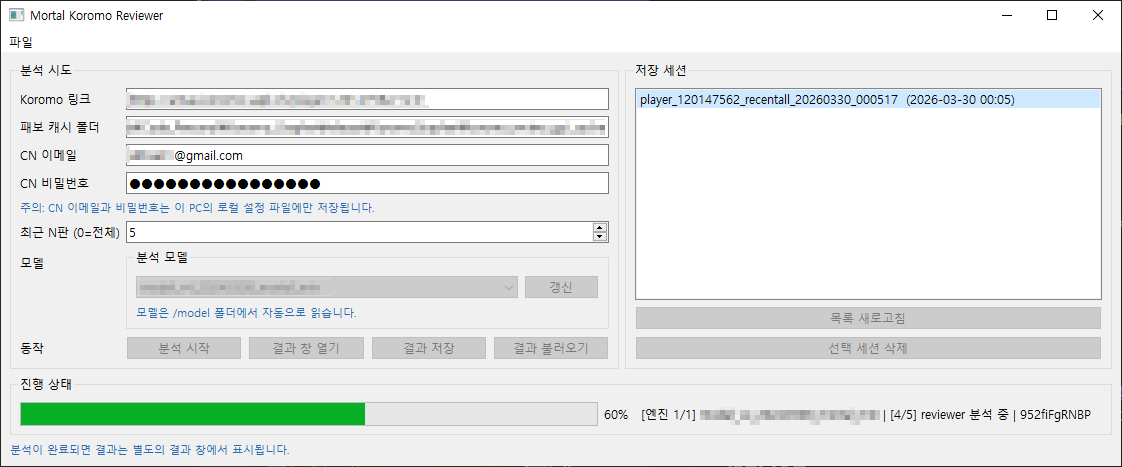
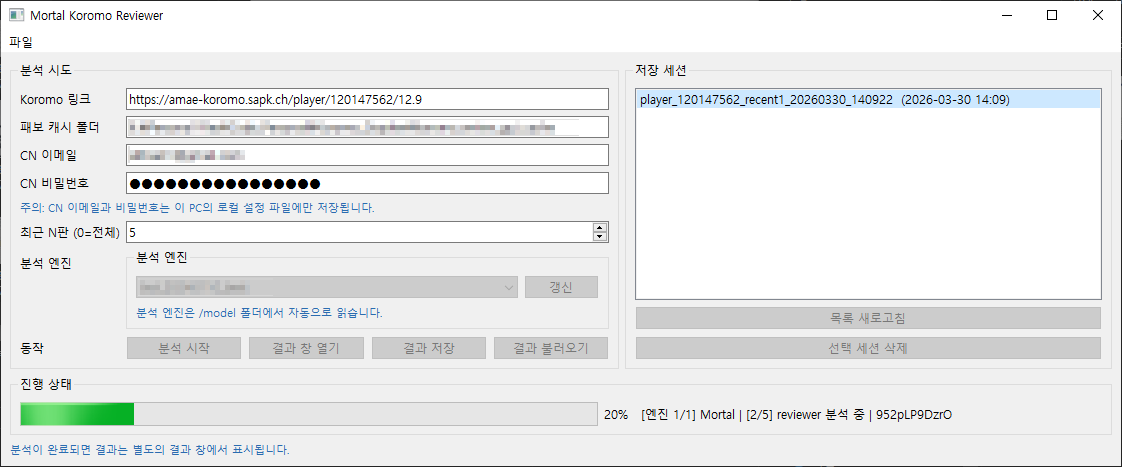
Update GUIDE.md / etc

diff --git a/koromo_review_gui/ui.py b/koromo_review_gui/ui.py
@@ -431,7 +431,7 @@ class AnalysisWorker(QObject):
             reports: list[EngineAnalysisResult] = []
             total_models = max(1, len(self.model_dirs))
             for model_index, model_dir in enumerate(self.model_dirs, start=1):
-                engine_name = "Mortal"
+                engine_name = Path(model_dir).name or f"engine_{model_index}"
                 analyzer_service = AnalyzerService(model_dir)
 
                 def bridge_progress(current: int, total: int, message: str):
@@ -485,6 +485,9 @@ class KyokuDetailTab(QWidget):
         self.entry_table.setEditTriggers(QAbstractItemView.EditTrigger.NoEditTriggers)
         self.entry_table.setSelectionBehavior(QAbstractItemView.SelectionBehavior.SelectRows)
         self.entry_table.setSelectionMode(QAbstractItemView.SelectionMode.SingleSelection)
+        self.entry_table.setStyleSheet(
+            "QTableWidget::item:selected { background:#ede9fe; color:#4c1d95; }"
+        )
         self.entry_table.verticalHeader().setVisible(False)
         self.entry_table.verticalHeader().setDefaultSectionSize(38)
         self.entry_table.horizontalHeader().setSectionResizeMode(0, QHeaderView.ResizeMode.ResizeToContents)
@@ -613,7 +616,7 @@ class KyokuDetailTab(QWidget):
                 if col_index in {0, 3, 4}:
                     item.setTextAlignment(Qt.AlignmentFlag.AlignCenter)
                 self.entry_table.setItem(row_index, col_index, item)
-            tile_widget = self._make_tile_widget(entry.tile, compact=True)
+            tile_widget = self._make_plain_tile_widget(entry.tile, compact=True)
             tile_widget.setAlignment(Qt.AlignmentFlag.AlignCenter)
             cell = QWidget()
             cell_layout = QVBoxLayout(cell)
@@ -624,6 +627,7 @@ class KyokuDetailTab(QWidget):
         self.next_button.setEnabled(bool(self.filtered_entries))
         if self.filtered_entries:
             self.entry_table.selectRow(0)
+            self._update_entry_tile_cell_styles(0)
         else:
             self.compare_label.setText("-")
             self.meta_label.setText("-")
@@ -634,6 +638,7 @@ class KyokuDetailTab(QWidget):
         row_index = self.entry_table.currentRow()
         if row_index < 0 or row_index >= len(self.filtered_entries):
             return
+        self._update_entry_tile_cell_styles(row_index)
         entry = self.filtered_entries[row_index]
         flags = ", ".join(entry.flags) if entry.flags else "-"
         actual_color = "#c53030" if not entry.is_equal else "#2f855a"
@@ -676,6 +681,24 @@ class KyokuDetailTab(QWidget):
             return
         next_row = max(0, min(self.entry_table.rowCount() - 1, row + delta))
         self.entry_table.selectRow(next_row)
+
+    def _update_entry_tile_cell_styles(self, selected_row: int):
+        for row_index, entry in enumerate(self.filtered_entries):
+            cell = self.entry_table.cellWidget(row_index, 1)
+            if cell is None:
+                continue
+            if row_index == selected_row:
+                bg = "#ede9fe"
+                border = "#c4b5fd"
+            elif not entry.is_equal:
+                bg = "#fee2e2"
+                border = "#fecaca"
+            else:
+                bg = "transparent"
+                border = "transparent"
+            cell.setStyleSheet(
+                f"background:{bg}; border:1px solid {border}; border-radius:6px;"
+            )
 
     @staticmethod
     def _tile_to_unicode(tile: str) -> str:
@@ -763,6 +786,44 @@ class KyokuDetailTab(QWidget):
         pixmap = cls._tile_pixmap(tile, compact=compact, called=called)
         label.setPixmap(pixmap)
         label.setFixedSize(pixmap.size())
+        label.setAlignment(Qt.AlignmentFlag.AlignCenter)
+        return label
+
+    @classmethod
+    def _glyph_only_pixmap(cls, tile: str, compact: bool = False) -> QPixmap:
+        is_red = cls._is_red_five(tile)
+        is_dragon = cls._is_dragon_tile(tile)
+        fg = QColor("#c53030" if is_red else "#1f2937")
+        font_size = 24 if compact else 30
+        if is_dragon:
+            font_size -= 2
+        text = cls._tile_text(tile)
+        family = cls._tile_font_family()
+        font = QFont(family)
+        font.setPixelSize(font_size)
+        source = QPixmap(max(1, font_size + 10), max(1, font_size + 12))
+        source.fill(Qt.GlobalColor.transparent)
+        painter = QPainter(source)
+        painter.setRenderHint(QPainter.RenderHint.TextAntialiasing)
+        painter.setRenderHint(QPainter.RenderHint.Antialiasing)
+        path = QPainterPath()
+        path.addText(0.0, 0.0, font, text)
+        bounds = path.boundingRect()
+        transform = QTransform()
+        transform.translate(-bounds.left(), 1.0 - bounds.top())
+        path = transform.map(path)
+        painter.setPen(Qt.PenStyle.NoPen)
+        painter.setBrush(QBrush(fg))
+        painter.drawPath(path)
+        painter.end()
+        return TileGlyphStrip._trim_transparent(source)
+
+    @classmethod
+    def _make_plain_tile_widget(cls, tile: str, compact: bool = False) -> QLabel:
+        label = QLabel()
+        pixmap = cls._glyph_only_pixmap(tile, compact=compact)
+        label.setPixmap(pixmap)
+        label.setMinimumSize(max(28, pixmap.width()), max(32, pixmap.height()))
         label.setAlignment(Qt.AlignmentFlag.AlignCenter)
         return label
 
@@ -913,17 +974,19 @@ class ResultWindow(QMainWindow):
             "대국 ID", "판단 수", "Rating", "AI 일치율", "Top-3 일치율", "악수율 <5%", "악수율 <10%", "메모", "상세",
         ])
         self.table.setEditTriggers(QAbstractItemView.EditTrigger.NoEditTriggers)
-        self.table.horizontalHeader().setStretchLastSection(True)
+        self.table.horizontalHeader().setStretchLastSection(False)
         self.table.verticalHeader().setDefaultSectionSize(26)
         self.table.setSelectionBehavior(QAbstractItemView.SelectionBehavior.SelectRows)
-        self.table.setColumnWidth(0, 170)
+        self.table.horizontalHeader().setSectionResizeMode(7, QHeaderView.ResizeMode.Stretch)
+        self.table.horizontalHeader().setSectionResizeMode(8, QHeaderView.ResizeMode.Fixed)
+        self.table.setColumnWidth(0, 136)
         self.table.setColumnWidth(1, 64)
         self.table.setColumnWidth(2, 70)
         self.table.setColumnWidth(3, 86)
         self.table.setColumnWidth(4, 92)
         self.table.setColumnWidth(5, 82)
         self.table.setColumnWidth(6, 86)
-        self.table.setColumnWidth(8, 74)
+        self.table.setColumnWidth(8, 162)
         self.table.itemSelectionChanged.connect(self.on_table_selection_changed)
         self.table.itemDoubleClicked.connect(self.open_selected_game_detail)
 
@@ -1074,7 +1137,7 @@ class ResultWindow(QMainWindow):
             ]
             for col_index, value in enumerate(items):
                 self.table.setItem(row_index, col_index, QTableWidgetItem(value))
-            detail_button = QPushButton("상세 보기")
+            detail_button = QPushButton("보기")
             detail_button.clicked.connect(lambda _checked=False, idx=row_index: self.open_game_detail_at_row(idx))
             self.table.setCellWidget(row_index, 8, detail_button)
 

diff --git a/GUIDE.md b/GUIDE.md
@@ -3,8 +3,9 @@
 <details>
 <summary>이미지</summary>
 <img src="image/main.png" width="800px">
-<img src="image/graph1.png" width="800px">
-<img src="image/graph2.png" width="800px">
+<img src="image/graph.png" width="800px">
+<img src="image/result.png" width="800px">
+<img src="image/detail.png" width="800px">
 </details>
 
 - [Koromo](http://amae-koromo.sapk.ch/) 링크 기준으로 Mahjong Soul 대국을 내려받아, 로컬 Mortal 엔진으로 복기 및 통계를 보여주는 도구입니다.
